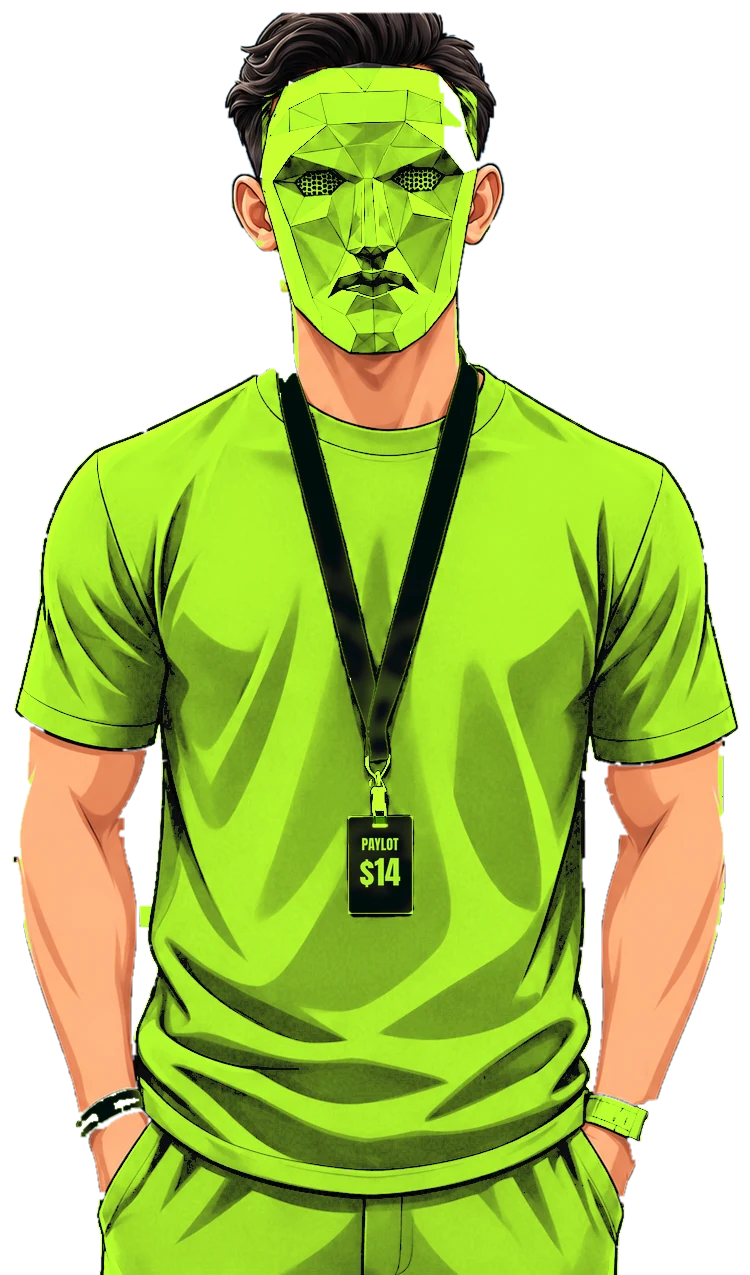
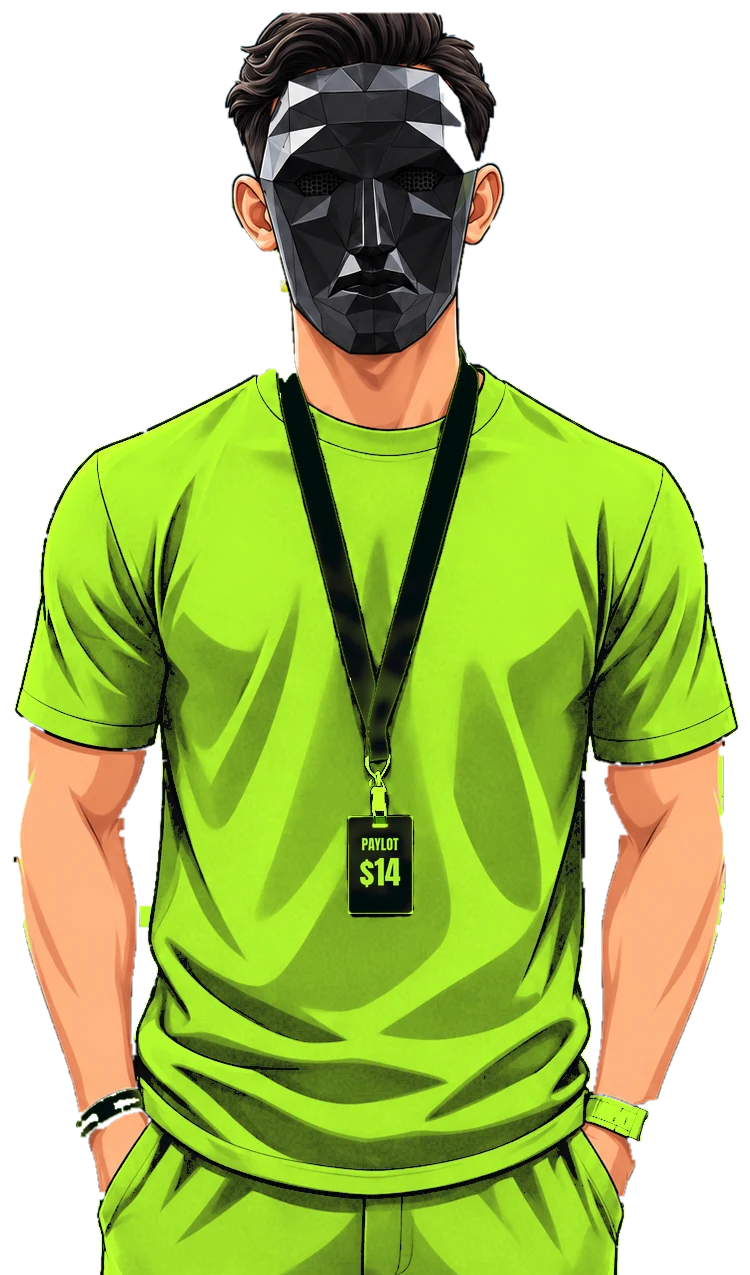
Hero: keep the mask black in the lime reveal; idle reveal drifts over the chest
Claude-Session: https://claude.ai/code/session_012cec7NEVhy4qqBC1Pf6D8n

Changed region(s): [[0.3373, 0.0306, 0.644, 0.2753]]

diff --git a/js/model.js b/js/model.js
@@ -1,15 +1,15 @@
 // PAYLOT hero model (cartoon) — liquid reveal.
 // One full-screen WebGL quad draws the model photo into the hero figure box:
 //   base layer  : the cartoon trader in a black kit
-//   reveal layer: the same trader in a lime PAYLOT kit (lime mask + shirt)
+//   reveal layer: the same trader in a lime PAYLOT kit (black mask, lime shirt)
 // A liquid blob follows the finger / cursor and leaves a fading trail; where the
 // blob is, the lime layer shows through. A depth map adds a slight 3D tilt.
 // When nobody is touching, the blob drifts around the face on its own.
 
 const LIME = [184 / 255, 1, 46 / 255];
-const SRC = { L0: 'assets/model-base.webp', L1: 'assets/model-mask.webp', D: 'assets/model-depth.webp' };
+const SRC = { L0: 'assets/model-base.webp?v=20261114b', L1: 'assets/model-mask.webp?v=20261114b', D: 'assets/model-depth.webp?v=20261114b' };
 const IW = 750, IH = 1275;               // source image size (all layers share it)
-const FACE = [369 / IW, 213 / IH];       // face centre in image space
+const FACE = [369 / IW, 560 / IH];       // idle drift centre (chest: the shirt turns lime there)
 
 const VS = 'attribute vec2 p;void main(){gl_Position=vec4(p,0.,1.);}';
 const FS = `precision highp float;
@@ -177,7 +177,7 @@ export async function initModel({ canvas, anchor, hero, finePointer, mobile }) {
       ty = ((y - (rect[1] + rect[3] * 0.4)) / Math.max(rect[3], 1)) * 1.4;
       tx = Math.max(-1, Math.min(1, tx)); ty = Math.max(-1, Math.min(1, ty));
     } else {
-      // idle: drift around the face so people know to try
+      // idle: drift over the chest so people know to try
       const fx = rect[0] + rect[2] * FACE[0], fy = rect[1] + rect[3] * FACE[1];
       x = fx + Math.cos(t * 0.9) * rect[2] * 0.16;
       y = fy + Math.sin(t * 1.3) * rect[3] * 0.08;

diff --git a/index.html b/index.html
@@ -11,7 +11,7 @@
   <link rel="preconnect" href="https://fonts.googleapis.com">
   <link rel="preconnect" href="https://fonts.gstatic.com" crossorigin>
   <link rel="stylesheet" href="https://fonts.googleapis.com/css2?family=Anton&family=Inter:wght@400;500;600&display=swap">
-  <link rel="stylesheet" href="css/style.css?v=20261114a">
+  <link rel="stylesheet" href="css/style.css?v=20261114b">
   <link rel="preload" as="image" href="assets/model-base.webp" fetchpriority="high">
   <!-- Critical preloader styles live here so a stale cached stylesheet can never show it unstyled -->
   <style>
@@ -213,6 +213,6 @@
     <a class="btn btn--primary" data-telegram href="#" target="_blank" rel="noopener" tabindex="-1">Join on Telegram</a>
   </div>
 
-  <script type="module" src="js/main.js?v=20261114a"></script>
+  <script type="module" src="js/main.js?v=20261114b"></script>
 </body>
 </html>

diff --git a/js/main.js b/js/main.js
@@ -1,4 +1,4 @@
-import { TELEGRAM_URL, REBATE_PER_LOT } from './config.js?v=20261114a';
+import { TELEGRAM_URL, REBATE_PER_LOT } from './config.js?v=20261114b';
 
 const root = document.documentElement;
 const { gsap, ScrollTrigger, SplitText, Lenis } = window;
@@ -309,7 +309,7 @@ async function loadFigure() {
   if (!webglAvailable()) return debugNote('static: no WebGL');
   if (lowTier && !forceCoin) return debugNote('static: low-tier device');
   try {
-    const { initModel } = await import('./model.js?v=20261114a');
+    const { initModel } = await import('./model.js?v=20261114b');
     figure = await initModel({
       canvas,
       anchor: document.querySelector('[data-figure-anchor]'),
